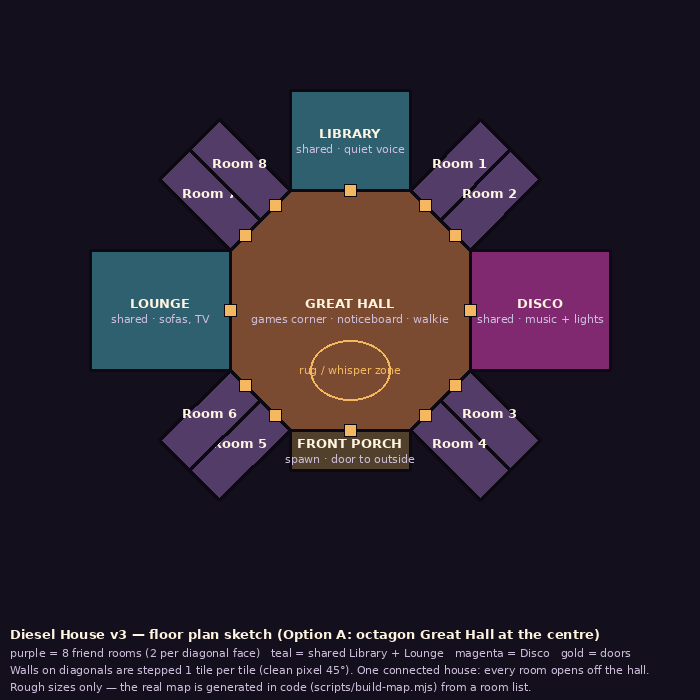
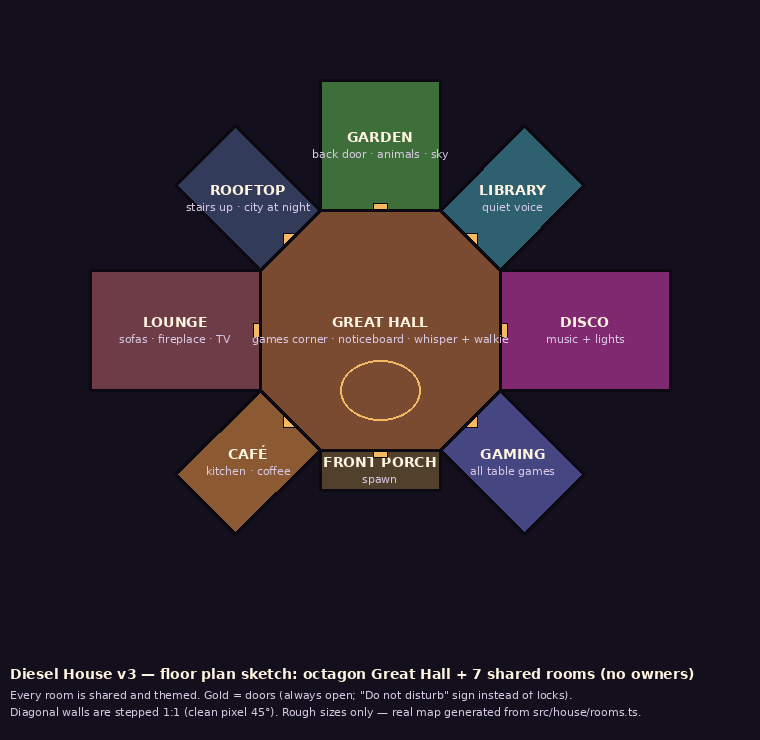
REDESIGN: no owned rooms; 7 shared themed rooms (Garden, Rooftop, Library, Disco, Gaming, Café, Lounge), do-not-disturb, medal/challenge updates
Claude-Session: https://claude.ai/code/session_017xT9TdebM9yi1FrXMwq4ed

Changed region(s): [[0.12, 0.09, 0.9, 0.72], [0.0, 0.9, 0.93, 0.99]]

diff --git a/REDESIGN.md b/REDESIGN.md
@@ -9,7 +9,7 @@ Read after `CLAUDE.md`, `FIXES.md`, `NEXT.md`, `UPDATE.md`, `LEVELS.md`. **This 
 ## 0. What Diesel asked for
 1. Seriously upgrade the UX. Fix lots of bugs and make the foundations solid, so things are easy to change and edit later.
 2. Make it feel like **one house**, not a grid of boxes.
-3. New shared rooms: a **Disco**, a **Library** and a **Lounge**.
+3. **No more 8 personal rooms.** Every room is a **shared themed space** with no owners (decided 18 Oct): Disco, Library, Lounge, Gaming room, Café, Garden and Rooftop. Diesel: "mix it and match it".
 4. Drop the 4-over-4 layout. Use a **hexagon or another shape, with the hallway as the centre**.
 5. **Many character skins** and **many animals**.
 6. Pull in 10+ diverse free pixel packs, because the overall look may change.
@@ -30,37 +30,49 @@ Read after `CLAUDE.md`, `FIXES.md`, `NEXT.md`, `UPDATE.md`, `LEVELS.md`. **This 
 
 ---
 
-## 2. The new house (layout Option A — octagon Great Hall)
+## 2. The new house (layout Option A — octagon Great Hall, 7 shared rooms)
 
 Sketch: **`design/redesign/floorplan_octagon.png`**
 
-- **Great Hall** at the centre, an **octagon** (8 faces). Every room opens off it, so it reads as one house. The games corner, noticeboard, walkie, whispering, and the rug/whisper zone in the middle all move here.
-- **North face → Library** (shared). **East face → Disco** (shared, bigger wing). **West face → Lounge** (shared, bigger wing). **South face → Front porch** (spawn, front door).
-- **The 4 diagonal faces each open onto 2 friend rooms → 8 friend rooms** (owners keep their rooms; map `room_01..08` onto the new slots in order).
-- Pixel tiles are square, so **diagonal walls are stepped** (1 tile across, 1 tile down) with a dedicated corner tile. They must look intentional, not jagged. Diagonal friend rooms in the sketch are drawn thin; make them at least 9 × 9 tiles inside.
+**Decision (18 Oct): no private rooms and no owners.** The house is the Great Hall plus 7 themed rooms anyone can use. The 8 personal rooms (`room_01..08`) are retired.
+
+| Hall face | Room | Voice | Look & features |
+|---|---|---|---|
+| Centre | **Great Hall** | Hallway rules (whisper + walkie) | Hub of the house: games corner, noticeboard, rug/whisper zone. |
+| S | **Front porch** | Hallway rules | Spawn point and front door. |
+| N | **Garden** (back door) | Open room voice | Outdoor: grass, trees, pond, bench, fire pit, night sky + stars. Most animals live here (fox, doe, owl, squirrel, frog). |
+| NW | **Rooftop** (stairs up from the hall) | Open room voice | Part of the garden idea: deck chairs, fairy lights, city skyline at night, telescope. |
+| NE | **Library** | **Quiet voice**: whisper-style falloff, no full-room mesh | Bookshelves, reading nooks, lamps, shared study timer on a desk. Owl lives here. |
+| E (big wing) | **Disco** | Open voice + **music bed** (anyone starts/stops a track from the jukebox) | Dance floor that changes colour, glitter ball, light sweeps, DJ booth, dance emote on the floor. Music never leaks into other rooms. |
+| SE | **Gaming room** | Open room voice | Arcade cabinets, consoles/TV, beanbags. **All table games move here** (Dice, RPS, Quick Draw, Higher or Lower, Hot Takes, Four in a Row). |
+| SW | **Café / Kitchen** | Open room voice | Coffee-shop look (Coffee Shop pack #4): counter, stools, bistro tables, a fridge with a daily "special". Cat lives here. |
+| W (big wing) | **Lounge** | Open room voice | Sofas, rug, fireplace, TV "watch party" card (link only), a second game table. |
+
+- Pixel tiles are square, so **diagonal walls are stepped** (1 tile across, 1 tile down) with a dedicated corner tile. They must look intentional, not jagged. Rooms on the diagonals must be at least 10 × 10 tiles inside.
+- With only 7 rooms, each can be bigger and more detailed than the old rooms. Aim for 14 × 12+ tiles, and wings (Disco, Lounge) around 18 × 14.
+- **No owners means:**
+  - **Doors** are always open. Remove the knock / lock / let-in flow, room passes, "remove guest" and owner room settings.
+  - Instead, anyone inside a room can toggle **"Do not disturb"**. The door shows a sign, and people outside get a gentle "They've asked for quiet. Go in anyway?" before entering. No hard lock.
+  - **Room names** are fixed (Disco, Library …); no renaming.
+  - **Game rules** per room (which games are allowed, custom Hot Takes prompts): any member can edit them from the room's noticeboard, which keeps a simple change log.
+  - **Ownership in the DB** (`rooms.owner_id`, `room_passes`, knock broadcasts): stop using it in R1. Leave the columns and tables in place for one release, then drop them in a later migration (tell Diesel first).
 - Option B (true hexagon in isometric view) was rejected for now: it means a full engine rewrite and far fewer assets. The isometric packs (#8, #9) are downloaded only so R2 can show what it would look like.
 
-### Shared rooms (new)
-| Room | Voice | Look & features |
-|---|---|---|
-| **Disco** | Open room voice, **music bed** (owner-less, anyone can start/stop a track from a jukebox) | Flashing dance floor (code-driven tile colours), spinning glitter ball, coloured light sweeps (additive Phaser lights), DJ booth. Dance emote loops while you stand on the floor. Never plays music into other rooms. |
-| **Library** | **Quiet voice**: whisper-style falloff like the hallway (no full-room mesh) | Bookshelves, reading nooks, lamps, a "study timer" (shared Pomodoro on a desk). Warm low light. |
-| **Lounge** | Open room voice | Sofas, rug, fireplace, a TV that shows a shared "watch party" link card (link only, no video streaming), board-game table → reuse the table games. |
-
-Shared rooms have **no owner**. Door is always open. Any member can use them; guests can too (same as the hall).
-
----
+### Knock-on changes to other plans
+- **Challenges (`UPDATE.md` §5):** replace "Knock on a door and get let in" with "Dance in the Disco for 2 minutes". Replace the weekly "Visit every room" with "Visit all 7 rooms".
+- **Medals (`LEVELS.md` §7.3):** these are already live (`src/challenges/pool.ts`, `20261027_challenges_xp.sql`). Keep the ids so nobody loses a medal they've earned, and only change the name, rule and "how" text: `decor` → **House tour** (visit all 7 rooms), `first_knock` → **Dance machine** (2 min on the Disco floor), `host` → **Party starter** (be in a room when it reaches 4 people). Anyone who already has them keeps them and their XP. Update the award checks in a new migration.
+- **Game spots (`UPDATE.md` §4):** `game:room_XX` topics become `game:<roomId>` (e.g. `game:gaming`, `game:lounge`).
 
 ## 3. Foundations (Phase R1 — do before any visuals)
-1. **Rooms become data.** Add `src/house/rooms.ts`, one list of `{ id, kind: 'private'|'shared', name, voice: 'room'|'quiet'|'music', polygon, door, floor, wall, theme }`. Everything (map build, zone lookup, voice, chat, games spots, "Who's where") reads from it.
-2. **Database.** New migration: drop the `room_0[1-8]` check. Allow ids `^[a-z0-9_]{3,32}$`, add a `kind` column, seed `disco`, `library`, `lounge`. Rewrite the Realtime policies to look up the `rooms` table instead of using a regex (`exists (select 1 from rooms where id = substr(topic, 7))` + `can_enter_room`). Shared rooms: `can_enter_room` returns true for members and admitted guests.
+1. **Rooms become data.** Add `src/house/rooms.ts`, one list of `{ id, name, voice: 'room'|'quiet'|'music', polygon, door, floor, wall, theme }`. Everything (map build, zone lookup, voice, chat, games spots, "Who's where") reads from it.
+2. **Database.** New migration: drop the `room_0[1-8]` check. Allow ids `^[a-z0-9_]{3,32}$`, seed `garden`, `rooftop`, `library`, `disco`, `gaming`, `cafe`, `lounge`, and mark `room_01..08` retired (`active = false`, kept for one release). Rewrite the Realtime policies to look up the `rooms` table instead of using a regex (`exists (select 1 from rooms where id = substr(topic, 7))` + `can_enter_room`). `can_enter_room` becomes: true for members and admitted guests on any active room (no owner or door checks). Add a `dnd` (do-not-disturb) flag + `dnd_set_by`/`dnd_at` on `rooms`; any member inside can set it, and it auto-clears when the room empties.
 3. **Polygon zones.** Zones come from polygons (Tiled polygon objects or `rooms.ts`), checked with `Phaser.Geom.Polygon.Contains`, plus a cached tile → zone lookup grid so it stays fast.
-4. **Split `HouseScene.ts`** into modules: `house/map.ts` (load, layers, collision), `house/zones.ts`, `house/players.ts` (avatars, interpolation), `house/doors.ts`, `house/lighting.ts`, `house/input.ts`, `house/hud-bridge.ts`. Target: no file over ~400 lines. **No behaviour change.** All existing e2e tests must still pass.
+4. **Split `HouseScene.ts`** into modules: `house/map.ts` (load, layers, collision), `house/zones.ts`, `house/players.ts` (avatars, interpolation), `house/doors.ts` (now just the do-not-disturb sign), `house/lighting.ts`, `house/input.ts`, `house/hud-bridge.ts`. Target: no file over ~400 lines. **No behaviour change.** All existing e2e tests must still pass.
 5. **Bundle.** Fix the `voice.ts` static import (move the shared types into `net/voiceTypes.ts`). Lazy-load games, admin, chat and profile. Target main chunk < 250 kB gzip.
 6. **Map builder.** Rewrite `scripts/build-map.mjs` to generate the house from `rooms.ts` (polygons → floors, stepped walls, door gaps, furniture recipes per room theme). Keep `npm run map`.
 7. **Error reporting.** Add a tiny client error catcher (`window.onerror` + unhandled rejections) that writes to a new `client_errors` table (rate-limited RPC, members only). Diesel can then see real bugs from friends' phones.
 
-**Done when:** the current game looks and behaves the same, every e2e test passes, the main chunk is < 250 kB gzip, and adding a test room in `rooms.ts` makes it show up with working voice, chat and doors without touching any other file.
+**Done when:** the current game looks and behaves the same apart from the removed owner features (knock/lock/passes/kick/rename are gone; the tests for them are replaced by do-not-disturb tests), every other e2e test passes, the main chunk is < 250 kB gzip, and adding a test room in `rooms.ts` makes it show up with working voice, chat and doors without touching any other file.
 
 ---
 
@@ -87,16 +99,18 @@ Shared rooms have **no owner**. Door is always open. Any member can use them; gu
 ---
 
 ## 6. Phase R3 — Build the new house
-- Generate the octagon house from `rooms.ts` with the chosen pack(s): stepped diagonal walls, distinct floor and wall per room, furniture recipes per theme.
-- **Disco**: animated floor (cycle tile tints every beat), glitter ball sprite with rotating light specks, light sweeps, jukebox UI (pick from a few CC0 loops; ask Diesel before adding any music files) and a dance emote.
-- **Library**: quiet voice mode (reuse whisper falloff from the hallway code), shelves and nooks, study timer.
-- **Lounge**: sofas, fireplace, TV "watch party" card, table-game spot.
-- Lighting pass: night tint, warm lamp pools, and brighter rooms when people are inside (keep from NEXT.md §4.2).
-- Owners keep their room data: the migration maps `room_01..08` to the new 8 friend slots.
+- Generate the octagon house from `rooms.ts` with the chosen pack(s): stepped diagonal walls, a distinct floor and wall per room, and furniture recipes per theme (section 2 table).
+- **Disco:** colour-changing floor (cycle tile tints every beat), glitter ball with rotating light specks, light sweeps, jukebox UI (a few CC0 loops; ask Diesel before adding music files), dance emote.
+- **Library:** quiet voice mode (reuse the whisper falloff from the hallway code), shelves and nooks, study timer.
+- **Gaming room:** move every game spot here (plus the Lounge's second table). Arcade cabinet = Quick Draw.
+- **Café:** counter, stools, daily "special" on the fridge (a fun line, rotates daily).
+- **Garden + Rooftop:** outdoor tiles, a day/night sky that follows each viewer's local time, stars, pond, fire pit. The rooftop is reached by stairs from the hall (a short fade between maps, or the same map up a level).
+- **Lounge:** sofas, fireplace, TV "watch party" card, game table.
+- **Do not disturb:** a sign on the door, the soft warning before entering, and it auto-clears when the room is empty.
+- Lighting pass: night tint, warm lamp pools, and rooms with people inside glow brighter from the hall (keep from NEXT.md §4.2).
+- Migration: retire `room_01..08`. Old chat history in those rooms stays readable from an "Old rooms" archive in settings for one release.
 
-**Done when:** you can walk the whole house on a phone. Each friend room is distinct. Disco, Library and Lounge each work with the right voice mode. Walls (including diagonals) block correctly. "Who's where" and the map show the new shape. Every old e2e test, updated for the new map, passes.
-
----
+**Done when:** you can walk the whole house on a phone. All 7 rooms + hall + porch look distinct and work with the right voice mode. Walls (including diagonals) block correctly. Do-not-disturb works between two accounts. "Who's where" and the map show the new shape. The e2e tests, updated for the new map, pass.
 
 ## 7. Phase R4 — Skins and animals
 ### Skins (target **60+ choices**)
@@ -107,7 +121,7 @@ Shared rooms have **no owner**. Door is always open. Any member can use them; gu
 
 ### Animals (the house feels alive)
 - Ambient animals wander in fitting places: fox, doe, owl, squirrel, frog (#10); cat, bunny, pig, sheep and more (#11, non-commercial); and Ninja Adventure animals.
-- There is already a critters system (`src/critters/`, catching works live). **Extend it** rather than writing a new one: per-room spawn tables (cat in the Lounge, owl in the Library, frog near the porch), and more critters when more people are in.
+- There is already a critters system (`src/critters/`, catching works live). **Extend it** rather than writing a new one: per-room spawn tables (fox/doe/frog in the Garden, owl in the Library, cat in the Café, pigeon on the Rooftop if a pack has one), and more critters when more people are in.
 - **Pets**: each member can adopt one animal that follows them around (cosmetic). It is unlocked by level or a medal and stored on the profile.
 
 **Done when:** the picker shows 60+ skins and works smoothly on a 360 px phone, old profiles keep their character, at least 10 animal types appear around the house, and pets follow their owner for everyone watching.
@@ -142,7 +156,7 @@ Why most are still "to download": on 18 Oct at 00:30, itch.io's download server 
 
 ## 9. Phase R5 — UI/UX pass (after the look is chosen)
 - Re-skin all panels from the chosen pack + `theme.css` tokens, so one visual language covers the HUD, sheets, toasts and game panels.
-- **Navigation:** "Who's where" becomes a tappable mini-map of the octagon house (tap a room → walk there). Add room previews ("3 in the Disco · music on").
+- **Navigation:** "Who's where" becomes a tappable mini-map of the octagon house (tap a room → walk there). Add room previews ("3 in the Disco · music on", "Library · do not disturb").
 - **First-run:** a 3-step tour: walk, talk, rooms.
 - **Feedback everywhere:** every tap gets a sound + visual response; every network wait shows a pixel spinner, never a frozen screen; every error says what to do next.
 - **Accessibility:** tap targets ≥ 44 px, contrast AA, reduced-motion setting (turns off disco flashing, which is also a **photosensitivity** concern, so default the disco floor to a slow, soft cycle with no strobing).

diff --git a/LEVELS.md b/LEVELS.md
@@ -100,17 +100,19 @@ Medals are the badges already in the profile (`src/ui/profile.ts`, sprites in `p
 The mock's `lvl5` ("Level 5") and `legend` ("House legend — reach level 10") achievement badges overlap with ranks. **Remove both**; the rank medals replace them. Their two medal sprites (cells 8 and 9) can be reused for new achievements later. That leaves **10 achievement medals**.
 
 ### 7.3 XP for achievement medals (one-off, first time only)
+
+(Updated 18 Oct for REDESIGN.md: rooms have no owners, so "Home maker", "First knock" and "Party host" became the three new medals below. They reuse the same medal sprites.)
 | Medal | XP |
 |---|---|
-| Home maker (name your room) | 25 |
-| First knock | 25 |
+| House tour (visit all 7 rooms) | 25 |
+| Dance machine (2 min on the Disco floor) | 25 |
 | Social butterfly | 50 |
 | Over and out (walkie 3×) | 50 |
 | Night owl | 50 |
 | High roller (double six) | 75 |
 | Fastest hand (win Quick Draw) | 75 |
 | Duelist (win 3 RPS duels) | 100 |
-| Party host (4 people in your room) | 150 |
+| Party starter (be in a room when it reaches 4 people) | 150 |
 | Slow & steady (7-day streak) | 200 |
 | **Total** | **800** |
 
@@ -123,4 +125,4 @@ Rank medals give **no** XP (they come *from* XP, so no loops).
 - Guests: medals and XP don't apply (same as the rest of Phase 14).
 - Toast on earning: medal sprite + name + "+75 XP", medal sound, then the level-up overlay if the bonus caused a level-up (medal toast first, level-up second).
 
-**Done when:** the Phase 14 "Done when" in `UPDATE.md` passes, the unit tests above pass on both TS and SQL, a test account with 10,000,000 XP shows level 5,010 correctly on the name tag, HUD and profile, no code path rejects a level over 100, a test account crossing level 30 gets the Keyholder medal exactly once, the Legend medal shows ★★ at level 100, and earning "Party host" adds exactly 150 XP once (not again on refresh).
+**Done when:** the Phase 14 "Done when" in `UPDATE.md` passes, the unit tests above pass on both TS and SQL, a test account with 10,000,000 XP shows level 5,010 correctly on the name tag, HUD and profile, no code path rejects a level over 100, a test account crossing level 30 gets the Keyholder medal exactly once, the Legend medal shows ★★ at level 100, and earning "Party starter" adds exactly 150 XP once (not again on refresh).

diff --git a/UPDATE.md b/UPDATE.md
@@ -127,8 +127,8 @@ Quick win that the games need anyway.
 - **Streak**: visited the house on consecutive days → flame + number on your name tag.
 
 ### Starter challenge pool (pick 3 daily / 3 weekly at random per person, seeded by date + user so it's stable for the day)
-Daily (10–40 XP): Say hi in 3 different rooms · Spend 15 min in voice with at least 2 friends · Win a Rock-Paper-Scissors duel · Use the walkie-talkie 3 times · Send 5 emotes · React to 5 chat messages · Be the first friend in the house today · Knock on a door and get let in · Play any mini-game · Whisper to someone in the hallway.
-Weekly (80–200 XP): Visit every room · Win 5 games · 2 hours in voice this week · Host a game with 4+ players · Play all 6 mini-games · Keep a 4-day streak · Welcome a guest your friend invited · Win Quick Draw with a reaction under 250 ms.
+Daily (10–40 XP): Say hi in 3 different rooms · Spend 15 min in voice with at least 2 friends · Win a Rock-Paper-Scissors duel · Use the walkie-talkie 3 times · Send 5 emotes · React to 5 chat messages · Be the first friend in the house today · Dance in the Disco for 2 minutes *(was: knock on a door — changed by REDESIGN.md)* · Play any mini-game · Whisper to someone in the hallway.
+Weekly (80–200 XP): Visit all 7 rooms · Win 5 games · 2 hours in voice this week · Host a game with 4+ players · Play all 6 mini-games · Keep a 4-day streak · Welcome a guest your friend invited · Win Quick Draw with a reaction under 250 ms.
 
 ### Implementation
 - Definitions live in code: `src/challenges/pool.ts` (id, period daily|weekly, title, goal, xp, event kind, filter).
